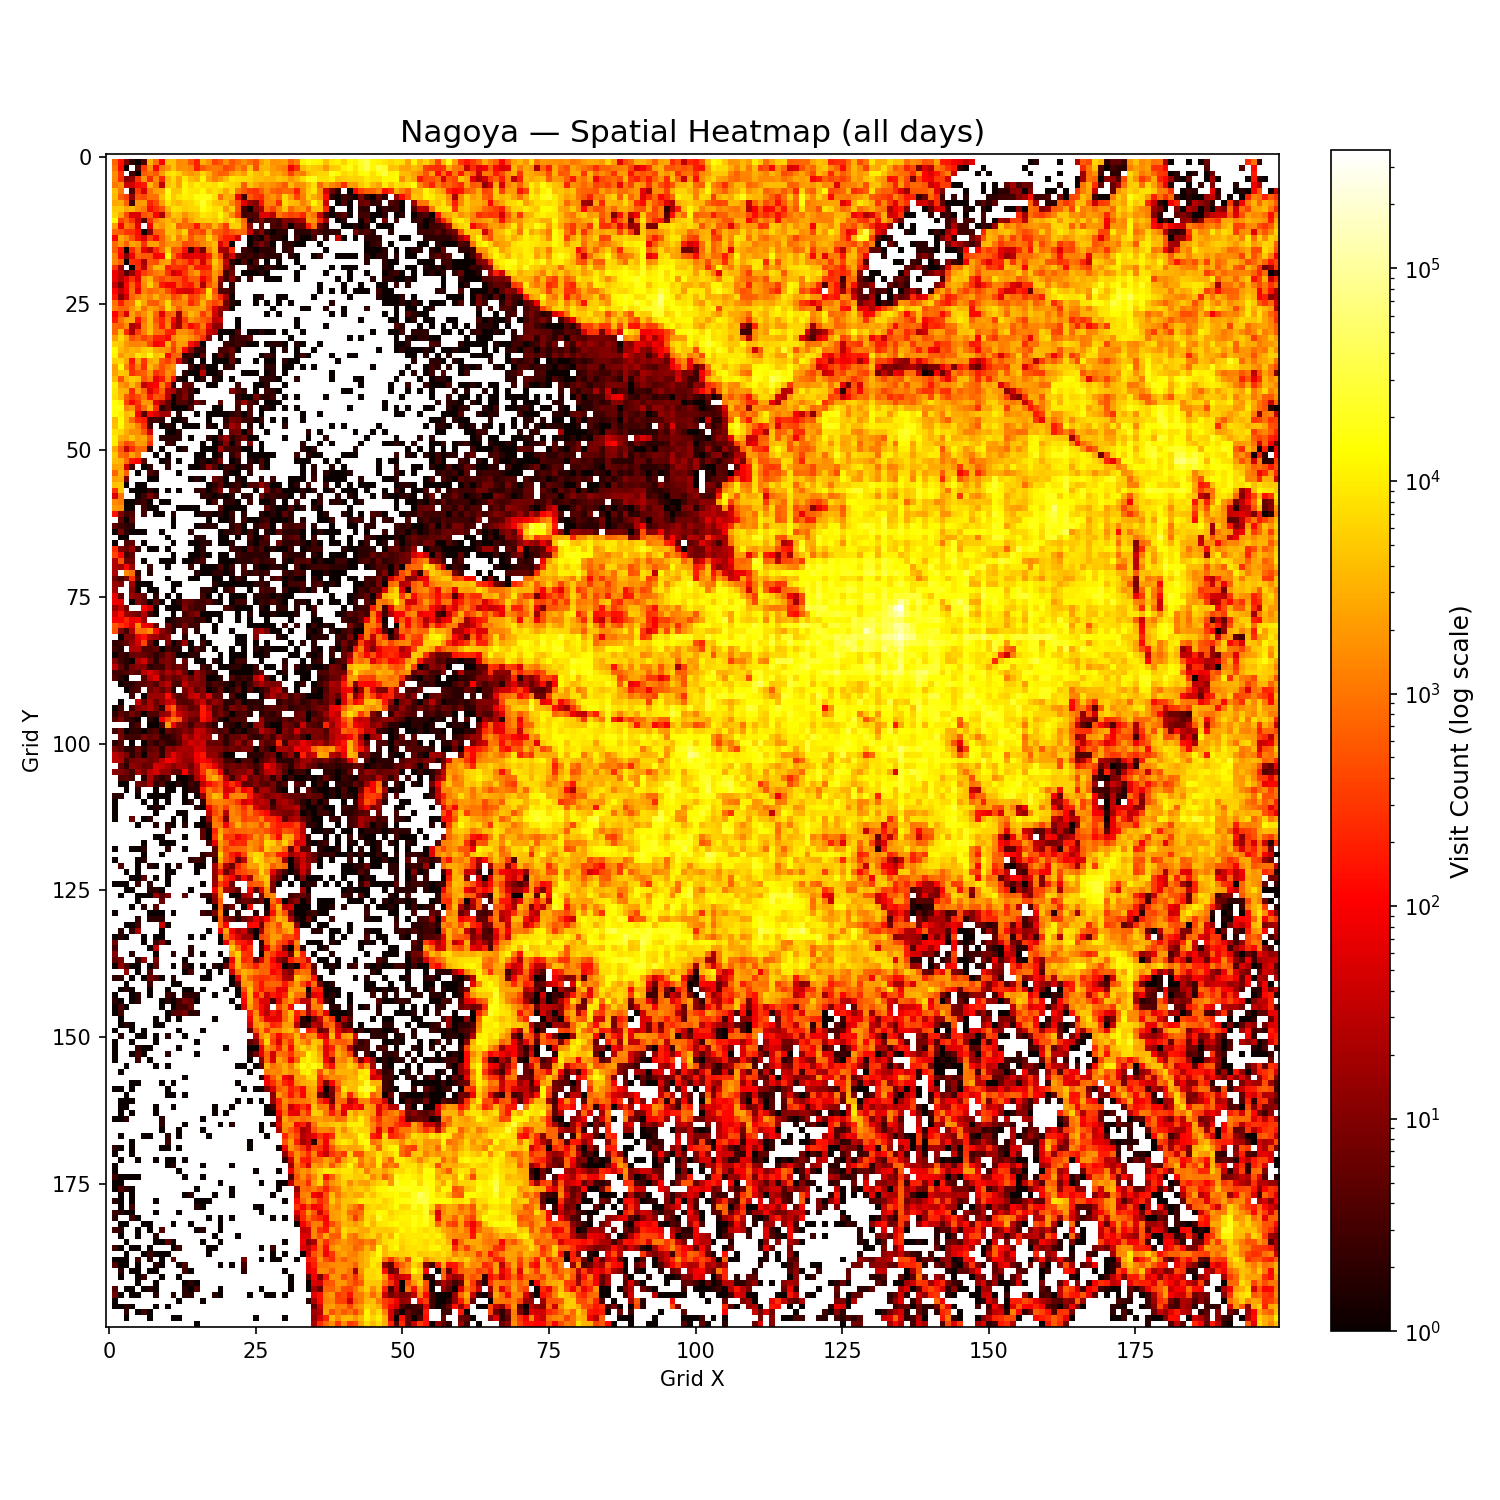
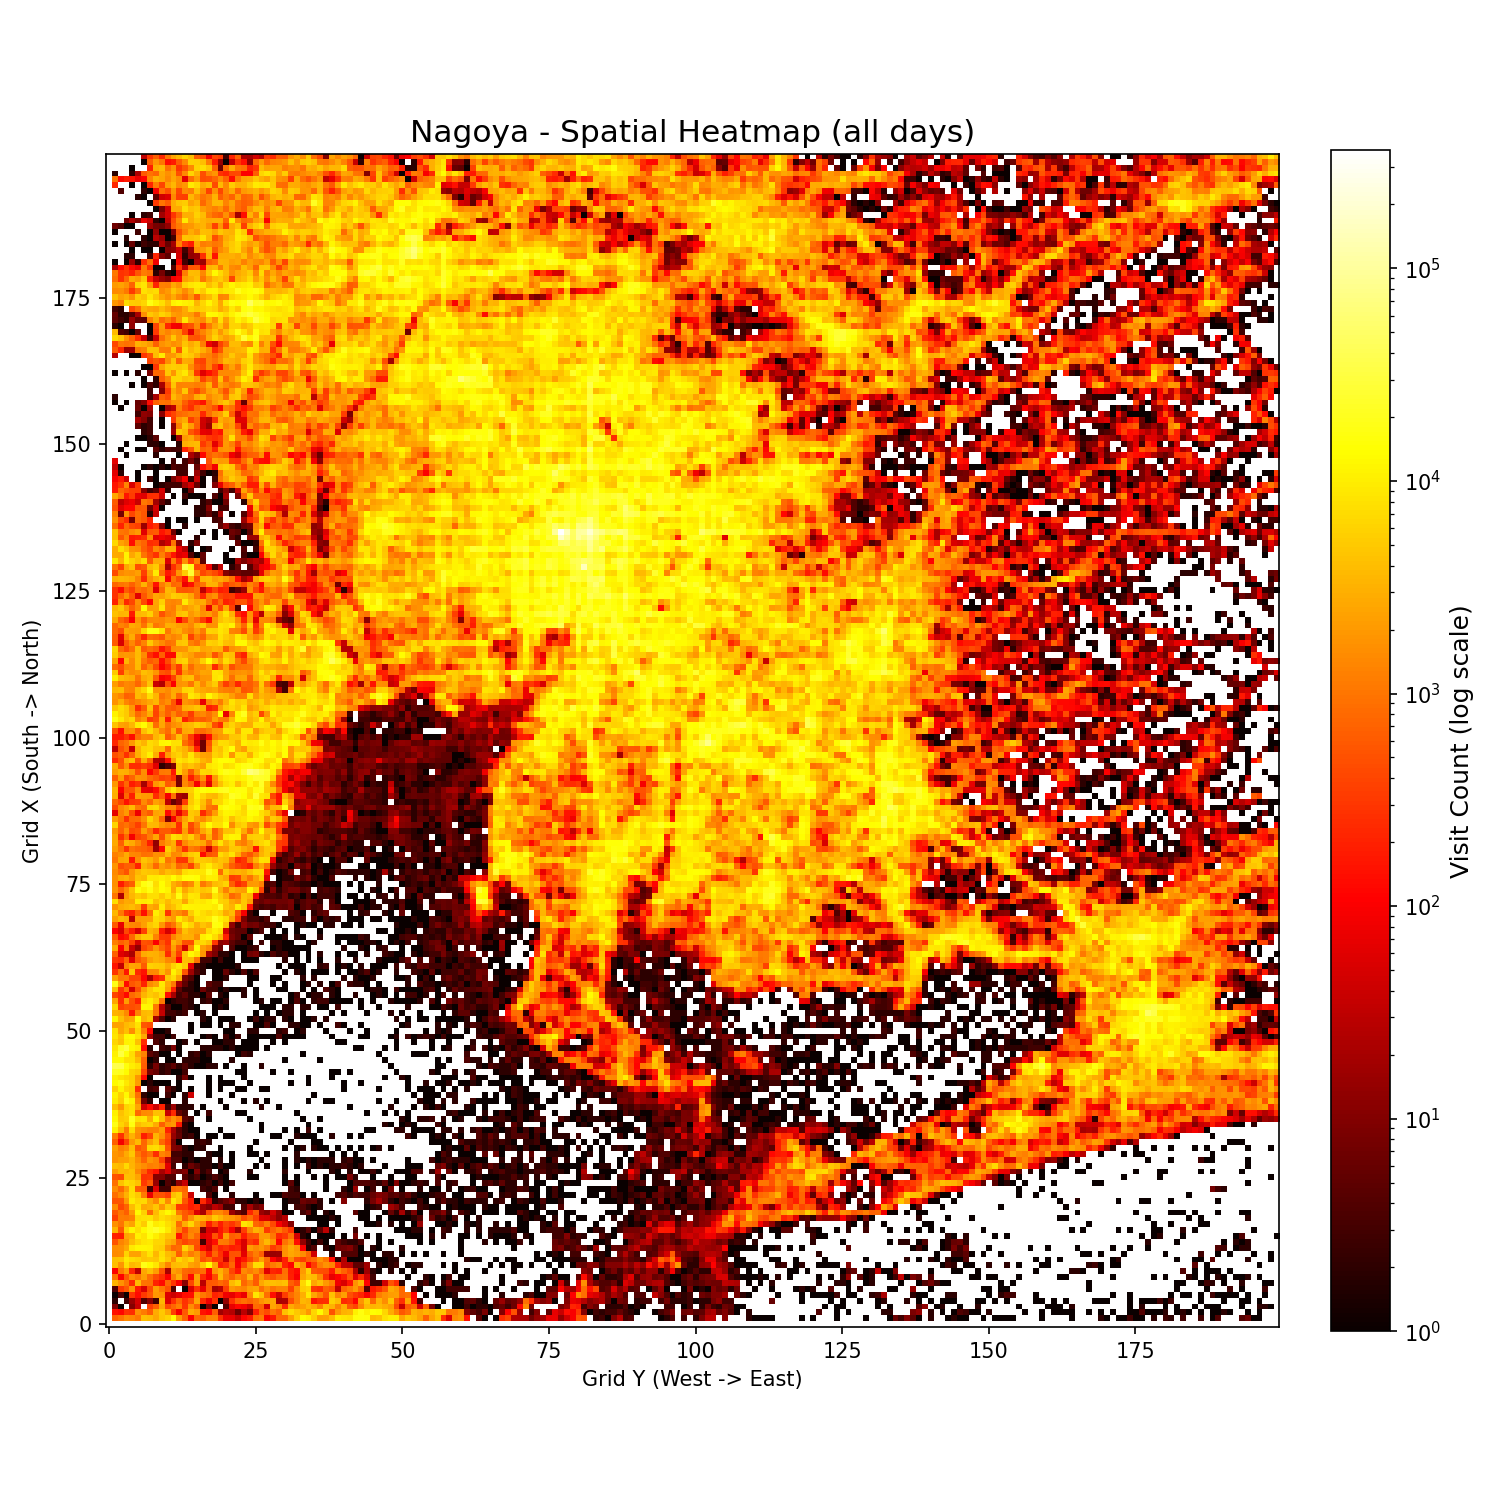
Add figures to docs/ and fix report image paths for GitHub rendering

diff --git a/docs/report.md b/docs/report.md
@@ -63,7 +63,7 @@
 
 ### 2.1 每日活躍使用者趨勢
 
-![每日活躍使用者](../output/figures/daily_active_users.png)
+![每日活躍使用者](figures/daily_active_users.png)
 
 | 指標 | 數值 |
 |---|---|
@@ -87,7 +87,7 @@
 
 ### 2.3 時間模式分析（一天內的人流波動）
 
-![時間模式](../output/figures/time_of_day_pattern.png)
+![時間模式](figures/time_of_day_pattern.png)
 
 | 時段 | 工作日平均活躍使用者 | 說明 |
 |---|---|---|
@@ -102,7 +102,7 @@
 
 ### 2.4 空間分布：人流密度地圖
 
-![Unique Users Map](../output/figures/unique_users_map.png)
+![Unique Users Map](figures/unique_users_map.png)
 
 白底紅色地圖，顏色越深代表造訪的唯一使用者數越多。可清楚觀察到：
 - **名古屋市中心軸線**（名古屋駅 → 榮 → 大須）形成最深紅色帶狀區域
@@ -113,7 +113,7 @@
 
 | 早晨通勤（08:00-10:00） | 傍晚通勤（17:00-19:00） |
 |---|---|
-| ![早晨軌跡](../output/figures/trajectory_map_morning.png) | ![傍晚軌跡](../output/figures/trajectory_map_evening.png) |
+| ![早晨軌跡](figures/trajectory_map_morning.png) | ![傍晚軌跡](figures/trajectory_map_evening.png) |
 
 黑底亮色，使用 Bresenham 演算法在使用者連續時步之間畫線，累積得到移動流向。可觀察到：
 - **早晨**：郊區往中心的軌跡明顯，放射狀收斂到名古屋駅
@@ -133,7 +133,7 @@ $$\text{std\_mean}_u = \frac{1}{48} \sum_{t=0}^{47} \frac{\sigma_{x,u,t} + \sigm
 
 ### 3.2 穩定性分布結果（100,000 使用者）
 
-![穩定性分布](../output/figures/user_stability_std.png)
+![穩定性分布](figures/user_stability_std.png)
 
 | 標準差區間 | 人數 | 比例 | 解讀 |
 |---|---|---|---|
@@ -180,7 +180,7 @@ $$\text{std\_mean}_u = \frac{1}{48} \sum_{t=0}^{47} \frac{\sigma_{x,u,t} + \sigm
 
 在執行分群前，我們先對全 200×200 網格的訪問量分布進行分析：
 
-![密度分布直方圖](../output/figures/hdbscan_density_distribution.png)
+![密度分布直方圖](figures/hdbscan_density_distribution.png)
 
 | 訪問量區間 | 格子數 | 累積訪問量 | 說明 |
 |---|---|---|---|
@@ -202,7 +202,7 @@ $$\text{std\_mean}_u = \frac{1}{48} \sum_{t=0}^{47} \frac{\sigma_{x,u,t} + \sigm
 
 為了解析不同密度層下的空間結構，我們對訓練集（d≤60）執行三組 HDBSCAN，逐步縮小輸入範圍至「最核心的高密度格子」：
 
-![三層 HDBSCAN 比較](../output/figures/hdbscan_3panel.png)
+![三層 HDBSCAN 比較](figures/hdbscan_3panel.png)
 
 | 執行設定 | 輸入格子範圍 | 密度門檻 | min_cluster_size | 識別群數 | 雜訊點數 |
 |---|---|---|---|---|---|
@@ -220,9 +220,9 @@ $$\text{std\_mean}_u = \frac{1}{48} \sum_{t=0}^{47} \frac{\sigma_{x,u,t} + \sigm
 
 ### 4.4 Run 3 群集詳細結果
 
-![標記 POI 的 HDBSCAN 群集地圖](../output/figures/hdbscan_annotated.png)
+![標記 POI 的 HDBSCAN 群集地圖](figures/hdbscan_annotated.png)
 
-![各群集訪問量長條圖](../output/figures/hdbscan_cluster_bars.png)
+![各群集訪問量長條圖](figures/hdbscan_cluster_bars.png)
 
 Run 3 識別出的前 12 大群集（按訪問量排序）：
 
@@ -278,7 +278,7 @@ HDBSCAN 的輸出結果不只是地圖上的色塊，而是直接服務於後續
 
 名古屋幾乎 7 成的使用者在 75 天的資料期間，至少有一次記錄出現在名古屋車站 2.5km 範圍內，說明車站是整個都市圈無可替代的中樞節點。
 
-![車站時間模式](../output/figures/nagoya_station_time_pattern.png)
+![車站時間模式](figures/nagoya_station_time_pattern.png)
 
 #### 為什麼名古屋車站有這樣的人流特徵？
 
@@ -314,7 +314,7 @@ HDBSCAN 的輸出結果不只是地圖上的色塊，而是直接服務於後續
 | 工作日 / 假日 比值 | **1.24×** |
 | 全日尖峰時間 | **13:00** |
 
-![名古屋大學時間模式](../output/figures/poi_nagoya_univ_time.png)
+![名古屋大學時間模式](figures/poi_nagoya_univ_time.png)
 
 #### 為什麼名古屋大學有這樣的人流特徵？
 
@@ -348,7 +348,7 @@ HDBSCAN 的輸出結果不只是地圖上的色塊，而是直接服務於後續
 | 工作日 / 假日 比值 | **1.32×** |
 | 全日尖峰時間 | **13:30** |
 
-![名古屋城時間模式](../output/figures/poi_nagoya_castle_time.png)
+![名古屋城時間模式](figures/poi_nagoya_castle_time.png)
 
 #### 為什麼名古屋城有這樣的人流特徵？
 
@@ -379,7 +379,7 @@ HDBSCAN 的輸出結果不只是地圖上的色塊，而是直接服務於後續
 | 工作日 / 假日 比值 | **1.29×** |
 | 全日尖峰時間 | **13:00** |
 
-![大須商店街時間模式](../output/figures/poi_osu_time.png)
+![大須商店街時間模式](figures/poi_osu_time.png)
 
 #### 為什麼大須商店街有這樣的人流特徵？
 
@@ -407,7 +407,7 @@ HDBSCAN 的輸出結果不只是地圖上的色塊，而是直接服務於後續
 | 工作日 / 假日 比值 | **1.27×** |
 | 全日尖峰時間 | **13:00** |
 
-![金山時間模式](../output/figures/poi_kanayama_time.png)
+![金山時間模式](figures/poi_kanayama_time.png)
 
 #### 為什麼金山有這樣的人流特徵？
 
@@ -426,7 +426,7 @@ HDBSCAN 的輸出結果不只是地圖上的色塊，而是直接服務於後續
 
 ### 5.6 五 POI 綜合比較
 
-![四 POI 時間模式比較](../output/figures/poi_4panel_comparison.png)
+![四 POI 時間模式比較](figures/poi_4panel_comparison.png)
 
 | 維度 | 名古屋車站 | 名古屋大學 | 名古屋城 | 大須商店街 | 金山 |
 | --- | --- | --- | --- | --- | --- |